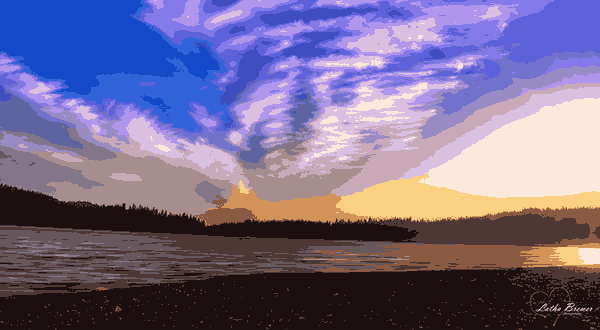
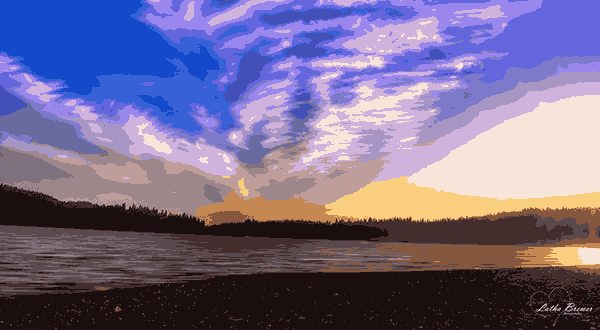
subtracts dmin for q2

diff --git a/hw6/em.py b/hw6/em.py
@@ -1,6 +1,7 @@
 import numpy as np
 import numpy.random as rand
 import numpy.linalg as npla
+import scipy.spatial.distance as dist
 import scipy.misc as misc
 import sklearn.mixture
 import sklearn.cluster
@@ -13,7 +14,7 @@ class Image(object):
         self.Pixel_Size = temp_img.shape[2]
         self.data = temp_img.reshape((-1, self.Pixel_Size))/255.
         self.scalar = sklearn.preprocessing.StandardScaler()
-        self.data = self.scalar.fit_transform(self.data)
+        self.data = self.scalar.fit_transform(self.data)*10.
 
 class NormalTheta(object):
     def __init__(self, num_segments, image_data):
@@ -33,31 +34,32 @@ class NormalTheta(object):
         x_norm = x_norm.repeat( self.num_segments, axis=0).T
         return x_norm
     def get_munorm(self):
+        """Something wrong"""
         mu_norm = npla.norm(self.mu , axis=1)
         mu_norm = np.power(mu_norm, 2)
         mu_norm = mu_norm.reshape((1,-1))
         mu_norm = mu_norm.repeat(self.image_data.shape[0], axis=0)
         return mu_norm
+    def get_d(self):
+        d_all = dist.cdist(self.image_data, self.mu)
+        d_min = d_all.min(axis=1)
+        return d_min
     def get_w(self):
+        """
         x_norm = self.get_xnorm()
         y_norm = self.get_munorm()
         x_mu_dot = -2 * np.dot(self.image_data, self.mu.T)
-        ret = np.exp(-0.5 * (x_norm + y_norm + x_mu_dot))
+        dmin = self.get_d()
+        exit(1)
+        """
+        diff = dist.cdist(self.image_data, self.mu)
+        dmin = diff.min(axis=1).reshape((1,-1)).repeat(self.num_segments, axis=0).T
+        ret = np.exp(-0.5 * (np.power(diff,2) - np.power(dmin,2)))
         pi = np.repeat([self.pi.T], self.image_data.shape[0], axis=0)
         ret = np.multiply(ret, pi)
         ret = np.divide(ret.T, ret.sum(axis=1)).T
         return ret
 
-    def get_w_old(self):
-        w = np.zeros((self.image_data.shape[0], self.num_segments))
-        for i in range(self.image_data.shape[0]):
-            for j in range(self.num_segments):
-                diff = self.image_data[i] - self.mu[j]
-                temp_exponent = -0.5 * diff.dot(diff)
-                w[i,j] = self.pi[j] * np.exp(temp_exponent)
-        for i in range(self.image_data.shape[0]):
-            w[i] /= w[i].sum()
-        return w
 
 
     def update_mu_pi(self, w):

diff --git a/hw6/image.py b/hw6/image.py
@@ -23,21 +23,19 @@ def do_em((name, image), num_segments):
         w = theta.get_w()
         theta.update_mu_pi(w)
 
-    new_means = image.scalar.inverse_transform(theta.mu)
+    new_means = image.scalar.inverse_transform(theta.mu/10.)
     assigned_segments = w.argmax(axis=1)
     new_data = np.zeros((image.data.shape[0], image.data.shape[1]))
     for i in range(image.data.shape[0]):
         new_data[i] = new_means[assigned_segments[i]]
 
     pic = new_data.reshape((image.xsize, image.ysize, image.Pixel_Size))
-    path = "q2_new_output/" + name + "_" + str(num_segments) + ".png"
+    path = "q2_output/" + name + "_" + str(num_segments) + ".png"
     plt.imsave(fname=path, arr=pic)
-
 for key, image in images.iteritems():
     print("========= Image: " + key)
     for num_segments in segments:
         print("===== Num Segs: " + str(num_segments))
         do_em((key, image), num_segments)
-
 for i in range(5):
     do_em(("partb" + str(i), images["sunset"]), 20)
